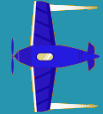
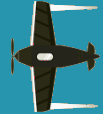
Тестирование генерации изображений. Удаление фона

diff --git a/image_processing.py b/image_processing.py
@@ -38,31 +38,45 @@ def generate_new_enemy_image(source: str,
         print(f'Файл с именем {fullname} уже существует. Перезапись не разрешена')
 
 
-def load_image(name: str) -> pygame.Surface:
-    """Загрузка изображения из файла. return pygame.Surface с данным изображением"""
+def load_image(name: str, color_key: tuple = -1) -> pygame.Surface:
+    """Загрузка изображения из файла. return pygame.Surface с данным изображением
+    color_key - если изображение было непрозрачным, задаём цвет фона"""
     fullname = os.path.join(IMAGES_DIRECTORY, name)
     if not os.path.isfile(fullname):
         print(f"Файл с изображением '{fullname}' не найден")
         sys.exit()
     image = pygame.image.load(fullname)
-    image = image.convert_alpha()
+    if color_key is not None:
+        image = image.convert()
+        if color_key == -1:
+            color_key = image.get_at((0, 0))
+        image.set_colorkey(color_key)
+    else:
+        image = image.convert_alpha()
     return image
 
 
 if __name__ == '__main__':
+    """"Создание 2 вражеских самолётов, тестирование правильной работы и отрисовки"""
     pygame.init()
     size = 300, 300
     screen = pygame.display.set_mode(size)
     screen.fill(pygame.Color('black'))
-    load_image('player_plane.png')
-    generate_new_enemy_image('player_plane.png', 'enemy2_plane.png', rewrite=True)
+    player = load_image('player_plane.png')
+    generate_new_enemy_image('player_plane.png', 'enemy_plane.png', rewrite=True)
     generate_new_enemy_image('player_plane.png',
-                             'enemy3_plane.png',
-                             key=lambda x: (x[0], x[2], x[1]),
+                             'enemy2_plane.png',
+                             key=lambda x: (x[2], x[2], x[1]),
                              rewrite=True)
+    enemy1 = load_image('enemy_plane.png')
+    enemy2 = load_image('enemy2_plane.png')
     running = True
     while running:
         for event in pygame.event.get():
             if event.type == pygame.QUIT:
                 running = False
         pygame.display.update()
+        screen.blit(player, (10, 10))
+        screen.blit(enemy1, (100, 10))
+        screen.blit(enemy2, (100, 150))
+
